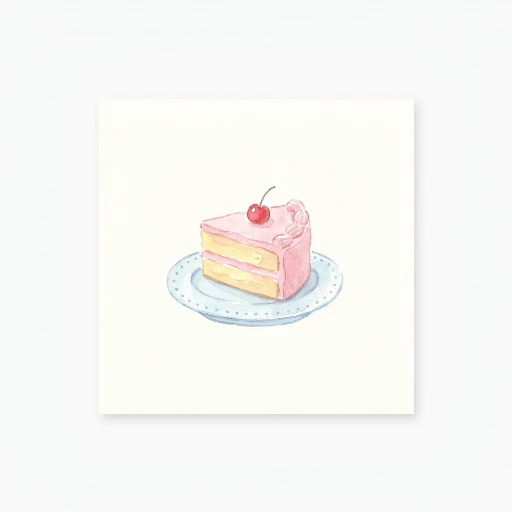
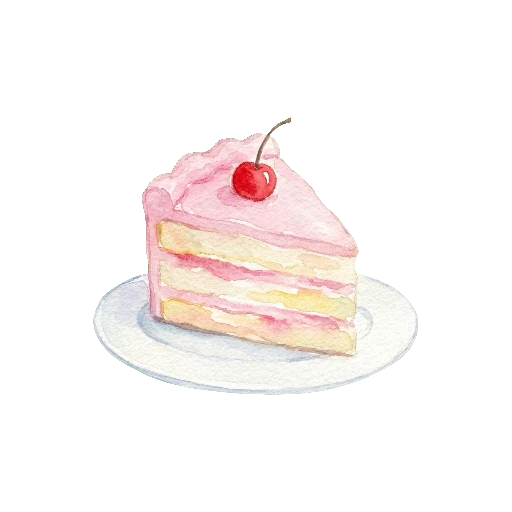
Regen 8 obrazków z greenscreen → przezroczyste tło: babel, chodnik, chrabąszcz, chrząszcz, ciasto, cielę, cień, ciężar (kettlebell 10kg)

Changed region(s): [[0.1875, 0.2188, 0.75, 0.75], [0.2188, 0.6562, 0.8125, 0.8438], [0.7812, 0.2188, 0.8125, 0.5938]]

diff --git a/tools/import_v2_with_greenscreen.dart b/tools/import_v2_with_greenscreen.dart
@@ -1,0 +1,128 @@
+// One-shot pipeline dla obrazków v2 wygenerowanych z greenscreenem:
+// 1. Wczytaj JPG z tools/new_images_v2/
+// 2. Usuń zielony kanał (chroma key) → transparent PNG
+// 3. Resize do 512×512
+// 4. Konwersja PNG → WebP via cwebp -alpha_q 100
+// 5. Nadpisz istniejący webp w assets/images/words/
+//
+// Użycie:
+//   dart run tools/import_v2_with_greenscreen.dart            # dry-run
+//   dart run tools/import_v2_with_greenscreen.dart --apply    # wykonuje
+
+import 'dart:io';
+import 'dart:math' as math;
+
+import 'package:image/image.dart' as img;
+
+const _srcDir = 'tools/new_images_v2';
+const _dstDir = 'assets/images/words';
+const _cwebpPath = 'tools/webp/cwebp.exe';
+const _maxDimension = 512;
+const _webpQuality = 90;
+
+// Greenscreen tunables (skopiowane z remove_greenscreen.dart).
+const double _fullyTransparent = 50;
+const double _startEdge = 10;
+
+int _alphaFor(double greenDom) {
+  if (greenDom >= _fullyTransparent) return 0;
+  if (greenDom <= _startEdge) return 255;
+  final t = (greenDom - _startEdge) / (_fullyTransparent - _startEdge);
+  return (255 * (1 - t)).round().clamp(0, 255);
+}
+
+img.Image _removeGreenscreen(img.Image src) {
+  final out = src.numChannels == 4 ? src : src.convert(numChannels: 4);
+  for (final p in out) {
+    if (p.a.toInt() == 0) continue;
+    final r = p.r.toDouble();
+    final g = p.g.toDouble();
+    final b = p.b.toDouble();
+    final greenDom = g - math.max(r, b);
+    final alpha = _alphaFor(greenDom);
+    if (alpha == 255) continue;
+    final despilledG = math.max(r, b);
+    p.setRgba(r.round(), despilledG.round(), b.round(), alpha);
+  }
+  return out;
+}
+
+Future<void> main(List<String> argv) async {
+  final apply = argv.contains('--apply');
+  if (!apply) stdout.writeln('DRY RUN — daj --apply żeby wykonać.\n');
+
+  final cwebp = File(_cwebpPath).absolute.path;
+  if (!File(_cwebpPath).existsSync()) {
+    stderr.writeln('BŁĄD: brak $_cwebpPath');
+    exit(1);
+  }
+
+  final src = Directory(_srcDir);
+  if (!src.existsSync()) {
+    stderr.writeln('BŁĄD: brak $_srcDir');
+    exit(1);
+  }
+
+  final jpgs = src
+      .listSync()
+      .whereType<File>()
+      .where((f) => f.path.toLowerCase().endsWith('.jpg'))
+      .toList()
+    ..sort((a, b) => a.path.compareTo(b.path));
+
+  stdout.writeln('Plików do obróbki: ${jpgs.length}\n');
+
+  for (final jpg in jpgs) {
+    final name = jpg.uri.pathSegments.last.replaceAll('.jpg', '');
+    final outWebp = File('$_dstDir/$name.webp');
+    final overwriting = outWebp.existsSync() ? ' (NADPISZE)' : '';
+    stdout.writeln('  $name.jpg → $name.webp$overwriting');
+    if (!apply) continue;
+
+    // 1. decode JPG
+    final image = img.decodeJpg(jpg.readAsBytesSync());
+    if (image == null) {
+      stderr.writeln('    ⚠ decode failed');
+      continue;
+    }
+
+    // 2. remove greenscreen
+    final transparent = _removeGreenscreen(image);
+
+    // 3. resize
+    final resized = (transparent.width > _maxDimension ||
+            transparent.height > _maxDimension)
+        ? img.copyResize(
+            transparent,
+            width: transparent.width >= transparent.height
+                ? _maxDimension
+                : null,
+            height: transparent.height > transparent.width
+                ? _maxDimension
+                : null,
+          )
+        : transparent;
+
+    // 4. save as transparent PNG (tmp), run cwebp, delete tmp
+    final tmpPng = File('$_dstDir/_tmp_v2_$name.png');
+    tmpPng.writeAsBytesSync(img.encodePng(resized));
+    final result = Process.runSync(cwebp, [
+      '-q', '$_webpQuality',
+      '-alpha_q', '100', // alpha lossless — kluczowe dla watercolor edges
+      tmpPng.absolute.path,
+      '-o', outWebp.absolute.path,
+    ]);
+    tmpPng.deleteSync();
+
+    if (result.exitCode != 0) {
+      stderr.writeln('    ⚠ cwebp failed: ${result.stderr}');
+      continue;
+    }
+    final size = outWebp.lengthSync();
+    stdout.writeln('    ✓ ${(size / 1024).toStringAsFixed(1)} KB');
+  }
+
+  stdout.writeln(
+    '\n${apply ? "Gotowe." : "DRY RUN — uruchom z --apply żeby wykonać."}',
+  );
+}
